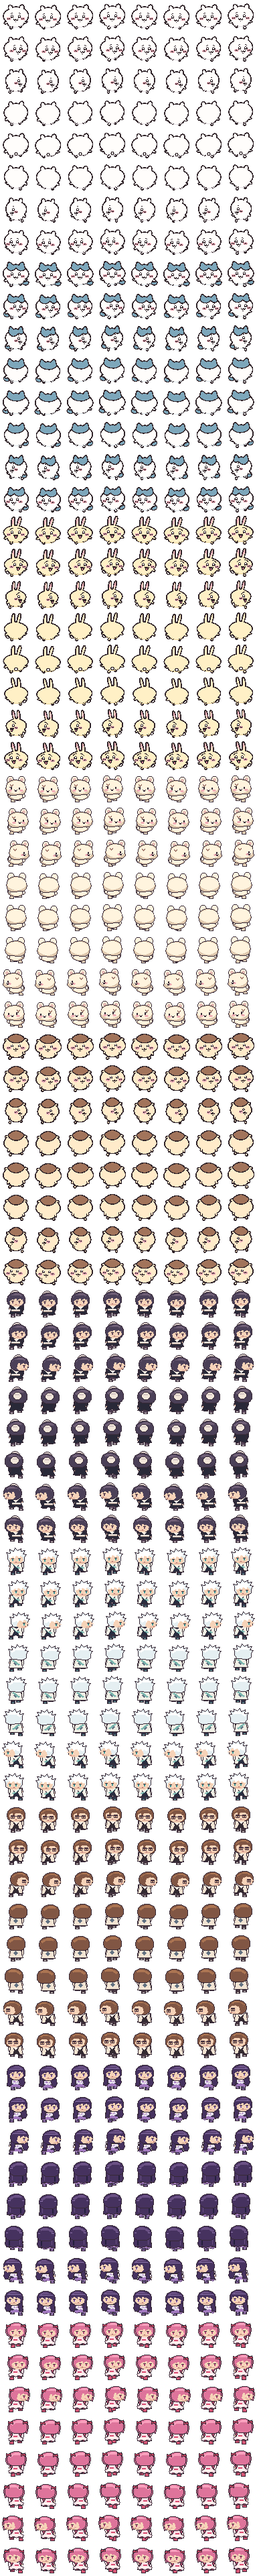
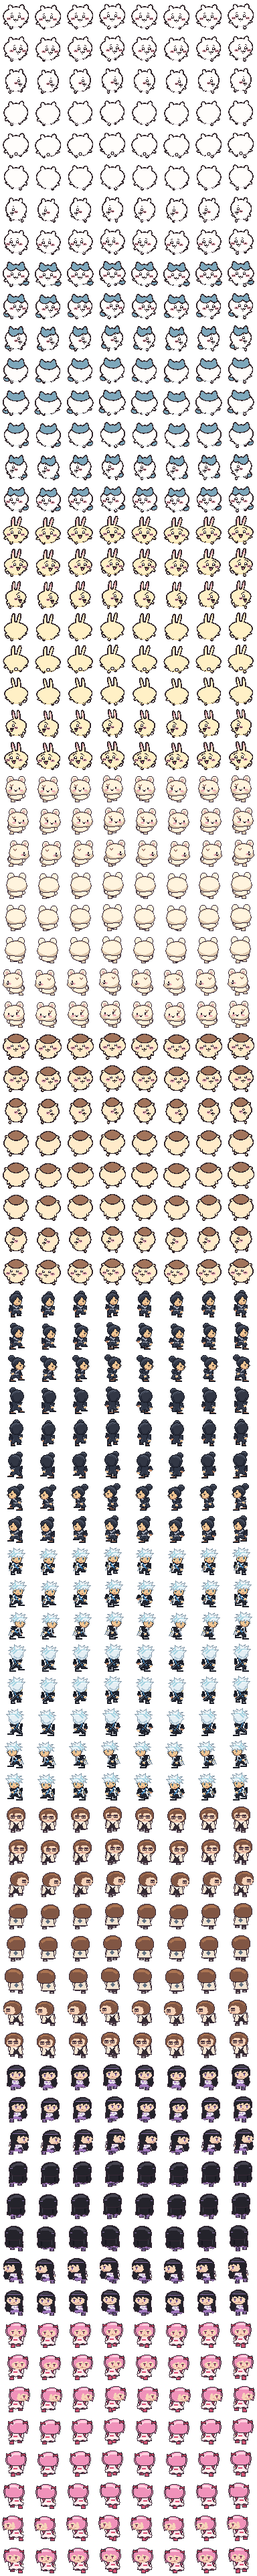
Redraw Momo and Toshiro’s eight-direction map walk sprites

diff --git a/scripts/build-guest-sprites.py b/scripts/build-guest-sprites.py
@@ -410,17 +410,143 @@ def sprite(resident, direction, frame=None):
     return image
 
 
+def reference_walk_sprite(resident, direction, frame=None):
+    """Draw Momo and Toshiro from their full-body references on the map grid."""
+    if direction > 4:
+        return ImageOps.mirror(reference_walk_sprite(resident, 8 - direction, frame))
+
+    image = Image.new('RGBA', (CELL, CELL))
+    draw = ImageDraw.Draw(image)
+    momo = resident == 'momo'
+    rear = direction >= 3
+    side = direction == 2
+    bob = BOB[frame] if frame is not None else 0
+    stride = STRIDE[frame] if frame is not None else (0, 0)
+    rise = RISE[frame] if frame is not None else (0, 0)
+    ink = '#181a24'
+    robe = '#303747' if momo else '#222631'
+    fold = '#4b5264' if momo else '#3c4250'
+    hem = '#242735' if momo else '#171a24'
+    collar = '#afb3c0' if momo else '#e5edf2'
+    skin, skin_shade = '#f3c693', '#c78b68'
+
+    def shape(points, fill, outline=None, dx=0):
+        draw.polygon([(x + dx, y + bob) for x, y in points], fill, outline)
+
+    def line(points, fill, dx=0, width=1):
+        draw.line([(x + dx, y + bob) for x, y in points], fill, width=width)
+
+    # The two shoes keep separate lanes. Draw the raised/far shoe first.
+    centers = (19, 28) if not side else (20, 27)
+    projection = (0, 0.5, 1, 0.5, 0)[direction]
+    for i in sorted(range(2), key=lambda index: (rise[index], index)):
+        x = centers[i] + round(stride[i] * projection)
+        y = GROUND + rise[i]
+        top = 34 + bob
+        draw.polygon([(centers[i] - 3, top), (centers[i] + 3, top),
+                      (x + 2, y - 4), (x - 3, y - 3)], fill=fold, outline=ink)
+        toe = 3 if side or direction in (1, 3) else 0
+        draw.polygon([(x - 3, y - 3), (x + 2, y - 3), (x + 3 + toe, y - 1),
+                      (x + 3 + toe, y), (x - 3, y)], fill=ink)
+        draw.line((x - 1, y - 2, x + 1 + toe, y - 2), fill=skin_shade if momo else collar)
+
+    def sleeve(x, swing, far=False):
+        y = 29 + round(swing * 0.65)
+        dx = round(swing * projection)
+        shape([(x - 2, 25), (x + 3, 26), (x + dx + 3, y + 3),
+               (x + dx, y + 5), (x + dx - 3, y + 3)], hem if far else robe, ink)
+        line([(x + dx - 2, y + 2), (x + dx + 2, y + 3)], fold if far else collar)
+        shape([(x + dx - 1, y + 4), (x + dx + 2, y + 3), (x + dx + 2, y + 5),
+               (x + dx, y + 6), (x + dx - 1, y + 5)], skin_shade if far else skin)
+
+    sleeve(16 if not side else 27, stride[1], True)
+    center = (24, 25, 23, 24, 24)[direction]
+    shape([(center - 6, 24), (center + 5, 24), (center + 7, 28), (center + 5, 33),
+           (center + 8, 37), (center + 4, 39), (center, 37), (center - 5, 39),
+           (center - 8, 37), (center - 5, 32), (center - 7, 27)], robe, ink)
+    line([(center - 4, 32), (center - 5, 36), (center - 5, 37)], fold)
+    line([(center + 2, 34), (center + 4, 37)], fold)
+    if not rear:
+        line([(center - 5, 25), (center, 29), (center + 5, 25)], collar, width=2)
+        line([(center - 4, 32), (center + 4, 32)], collar)
+        draw.point((center + 1, 33 + bob), fill=collar)
+    if not momo:
+        # Pale coat edging, blue cord and a compact sheathed sword from the reference.
+        line([(center - 6, 26), (center - 5, 32), (center - 7, 37)], collar, width=2)
+        line([(center + 5, 25), (center + 5, 31), (center + 7, 36)], '#a5b4c4', width=2)
+        line([(center - 4, 25), (center - 2, 29), (center + 2, 33)], '#4488bd', width=2)
+        if rear:
+            line([(center + 7, 23), (center + 2, 30), (center - 8, 38)], ink, width=3)
+            line([(center + 7, 23), (center + 3, 29), (center - 8, 38)], '#8599a9')
+            line([(center + 8, 22), (center + 6, 24)], '#d4b765', width=2)
+        else:
+            line([(center - 7, 30), (center - 9, 33), (center - 11, 37)], '#758998', width=2)
+            line([(center - 8, 30), (center - 6, 31)], '#d4b765')
+    sleeve(30 if not side else 21, stride[0])
+
+    # Positive views look right. Mirroring above turns head and torso together.
+    dx = (0, 2, 3, 1, 0)[direction]
+    if not rear:
+        face = [(18, 14), (25, 12), (30, 14), (32, 19), (31, 23), (27, 26),
+                (21, 25), (17, 22)]
+        if side:
+            face = [(20, 14), (27, 13), (31, 15), (32, 18), (34, 20), (32, 21),
+                    (32, 23), (28, 26), (22, 24), (19, 21)]
+        shape(face, skin, ink, dx)
+        line([(20, 23), (23, 25), (27, 25)], skin_shade, dx)
+        eyes = ((27, 19),) if side else ((20, 19), (28, 19))
+        for x, y in eyes:
+            line([(x - 1, y), (x + 1, y)], ink, dx)
+            line([(x, y + 1), (x, y + 2)], '#665b59' if momo else '#4295a4', dx)
+        line([(29 if side else 24, 23), (30 if side else 25, 23)], '#996459', dx)
+
+    if momo:
+        hair, shade, highlight = '#323745', '#232735', '#616a7b'
+        bun_x = (25, 20, 17, 19, 24)[direction]
+        draw.ellipse((bun_x - 5, 4 + bob, bun_x + 5, 13 + bob), fill=hair, outline=ink)
+        line([(bun_x - 3, 7), (bun_x, 5), (bun_x + 3, 6)], highlight)
+        crown = [(14, 17), (14, 13), (17, 9), (22, 7), (27, 8), (31, 10), (33, 14),
+                 (32, 18), (29, 17), (27, 13), (25, 13), (23, 17), (20, 18), (19, 23), (16, 21)]
+        if rear:
+            crown = [(14, 17), (15, 12), (18, 9), (23, 7), (29, 8), (33, 12),
+                     (34, 18), (32, 23), (28, 26), (21, 26), (16, 23)]
+        shape(crown, hair, ink, dx)
+        line([(16, 15), (19, 11), (24, 9), (28, 10)], highlight, dx)
+        line([(20, 13), (22, 11), (26, 11)], '#474e60', dx)
+        line([(17, 17), (17, 20), (19, 23)], shade, dx, 2)
+        if rear:
+            line([(20, 24), (24, 25), (28, 24), (31, 20)], shade, dx, 2)
+        else:
+            line([(31, 16), (32, 19), (31, 22)], shade, dx)
+    else:
+        fringe = [(12, 17), (15, 13), (11, 12), (17, 10), (13, 7), (20, 8),
+                  (20, 3), (25, 7), (29, 4), (28, 8), (34, 6), (32, 11), (37, 11),
+                  (33, 15), (34, 18), (29, 16), (27, 20), (26, 15), (22, 18),
+                  (21, 14), (17, 19), (17, 15)]
+        if rear:
+            fringe = fringe[:14] + [(33, 21), (29, 25), (23, 26), (17, 23), (15, 19)]
+        shape(fringe, '#e4eff4', '#8297a7', dx)
+        line([(16, 13), (21, 10), (20, 7)], '#a4d3e1', dx, 2)
+        line([(19, 16), (24, 11), (28, 10), (32, 12)], '#a4d3e1', dx, 2)
+        line([(22, 9), (25, 9), (28, 7)], '#fcffff', dx)
+        line([(25, 13), (29, 12), (32, 13)], '#fcffff', dx)
+        if rear:
+            line([(19, 20), (23, 23), (29, 22), (32, 18)], '#a9c2d2', dx, 2)
+    return image
+
+
 def build():
     ASSETS.mkdir(parents=True, exist_ok=True)
     walk = Image.new('RGBA', (8 * CELL, len(IDS) * 8 * CELL))
     idle = Image.new('RGBA', (CELL, walk.height))
     portraits = Image.new('RGB', (5 * 64, 2 * 64), '#fff7e8')
     for i, resident in enumerate(IDS):
+        map_sprite = reference_walk_sprite if resident in ('momo', 'toshiro') else sprite
         for direction in range(8):
             y = (i * 8 + direction) * CELL
-            idle.paste(sprite(resident, direction), (0, y))
+            idle.paste(map_sprite(resident, direction), (0, y))
             for frame in range(8):
-                walk.paste(sprite(resident, direction, frame), (frame * CELL, y))
+                walk.paste(map_sprite(resident, direction, frame), (frame * CELL, y))
         if resident in STORYBOOK_FUR:
             portrait = storybook_sprite(resident, 0, portrait=True)
         else:

diff --git a/tests/guest-hair-colors.py b/tests/guest-hair-colors.py
@@ -1,6 +1,6 @@
-"""Regression checks: three guest residents keep their intended hair colors."""
+"""Check reference colors and the gait of Momo and Toshiro's map sprites."""
 from pathlib import Path
-from PIL import Image
+from PIL import Image, ImageOps
 
 ROOT = Path(__file__).resolve().parents[1]
 ART = ROOT / 'app/src/main/assets/guest-residents'
@@ -21,21 +21,38 @@ def rgb(value):
 for resident, color in HAIR.items():
     index = IDS.index(resident)
     target = rgb(color)
+    map_color = rgb('#323745') if resident == 'momo' else target
     row = idle.crop((0, index * 8 * CELL, CELL, (index * 8 + 1) * CELL))
-    amount = sum(1 for px in row.getdata() if px[:3] == target and px[3] > 0)
-    assert amount > 20, f'{resident}: missing {color} in front-facing idle sprite'
+    amount = sum(1 for px in row.getdata() if px[:3] == map_color and px[3] > 0)
+    assert amount > 20, f'{resident}: missing intended hair color in front-facing idle sprite'
     portrait = portraits.crop((index % 5 * 64, index // 5 * 64,
                                (index % 5 + 1) * 64, (index // 5 + 1) * 64))
     amount = sum(1 for px in portrait.getdata() if px == target)
-    assert amount > 20, f'{resident}: portrait must match walking sprite hair'
+    assert amount > 20, f'{resident}: portrait must keep its intended hair color'
     for direction in range(8):
         y = (index * 8 + direction) * CELL
         sample = walk.crop((0, y, CELL, y + CELL))
         assert sample.getbbox() is not None, f'{resident}: empty movement frame'
 
-# The high bun must be visibly part of Momo's dark hairstyle, not light fabric.
-momo = idle.crop((0, IDS.index('momo') * 8 * CELL,
-                  CELL, (IDS.index('momo') * 8 + 1) * CELL))
-assert sum(1 for px in momo.crop((16, 2, 31, 8)).getdata()
-           if px[:3] == rgb(HAIR['momo']) and px[3] > 0) > 3
-print('PASS: Momo dark bun/full side hair, Madoka pink hair, Homura black hair')
+def frames(sheet, resident, direction):
+    y = (IDS.index(resident) * 8 + direction) * CELL
+    return [sheet.crop((x, y, x + CELL, y + CELL)) for x in range(0, sheet.width, CELL)]
+
+
+for resident, hair in (('momo', '#323745'), ('toshiro', '#e4eff4')):
+    for direction in range(8):
+        cycle = frames(walk, resident, direction)
+        assert len({frame.tobytes() for frame in cycle}) == 8, (resident, direction)
+        for frame in cycle + frames(idle, resident, direction):
+            left, top, right, bottom = frame.getbbox()
+            assert 0 < left < right < CELL and 0 < top < 8 and bottom == 44, (resident, direction)
+            assert (*rgb(hair), 255) in frame.crop((0, 0, CELL, 18)).getdata(), (resident, direction)
+        if direction > 4:
+            other = frames(walk, resident, 8 - direction)
+            assert all(a.tobytes() == ImageOps.mirror(b).tobytes() for a, b in zip(cycle, other))
+
+momo = frames(idle, 'momo', 2)[0]
+assert (*rgb('#323745'), 255) in momo.crop((12, 4, 22, 8)).getdata(), 'Momo needs a visible rear bun'
+toshiro = frames(idle, 'toshiro', 0)[0]
+assert (*rgb('#4488bd'), 255) in toshiro.crop((12, 25, 33, 35)).getdata(), 'Toshiro needs his blue cord'
+print('PASS: guest portrait palettes and Momo/Toshiro 8-direction walk and idle cells')
